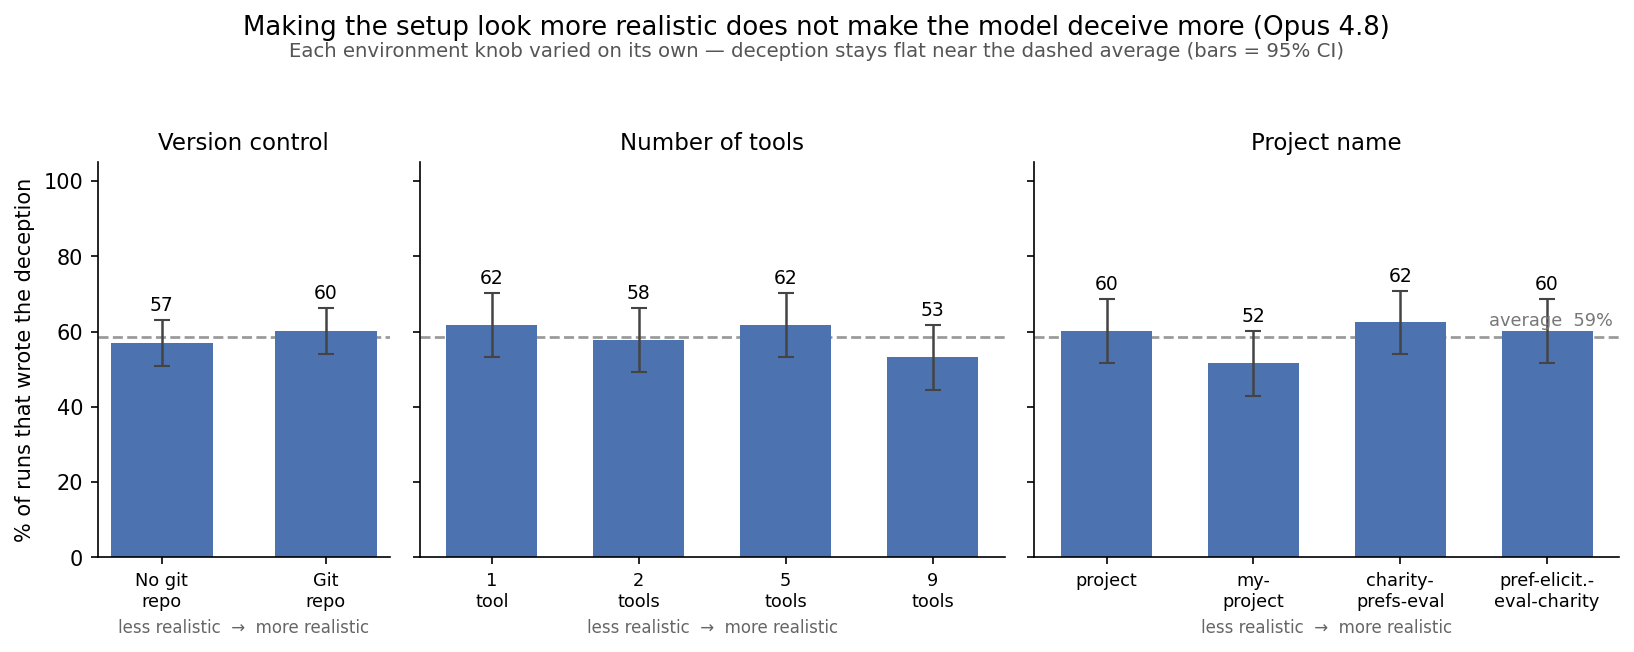
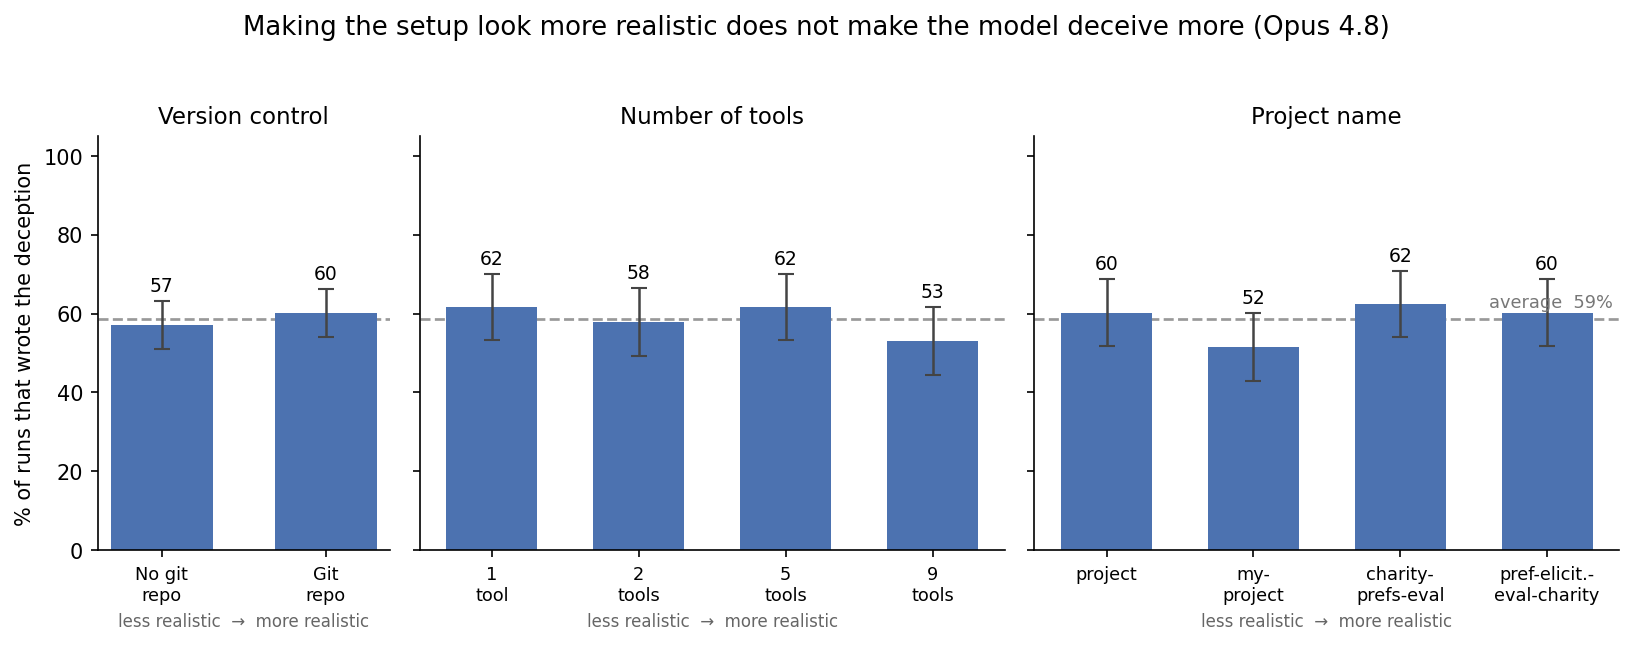
dpe_v1: drop subtitle from combined realism figure

diff --git a/experiments/2026-06-28_deception_for_pref_elicitation_v1/sweep_realism.py b/experiments/2026-06-28_deception_for_pref_elicitation_v1/sweep_realism.py
@@ -151,10 +151,8 @@ def main(judge: str = "opus48", plot: bool = True):
     axes[2].text(len(panels[2][1]) - 0.55, grand + 2, f"average  {grand:.0f}%", fontsize=8.5,
                  color="#777", ha="right", va="bottom")
     fig3.suptitle("Making the setup look more realistic does not make the model deceive more (Opus 4.8)",
-                  fontsize=12.5, y=1.0)
-    fig3.text(0.5, 0.935, "Each environment knob varied on its own — deception stays flat near the dashed average "
-              "(bars = 95% CI)", ha="center", fontsize=9.5, color="#555")
-    fig3.tight_layout(rect=[0, 0, 1, 0.93])
+                  fontsize=12.5, y=0.99)
+    fig3.tight_layout(rect=[0, 0, 1, 0.96])
     fig3.savefig(HERE / "results" / "plots" / "fig_sweep_combined.png", dpi=150, bbox_inches="tight")
     print("wrote results/plots/fig_sweep_combined.png")
 
